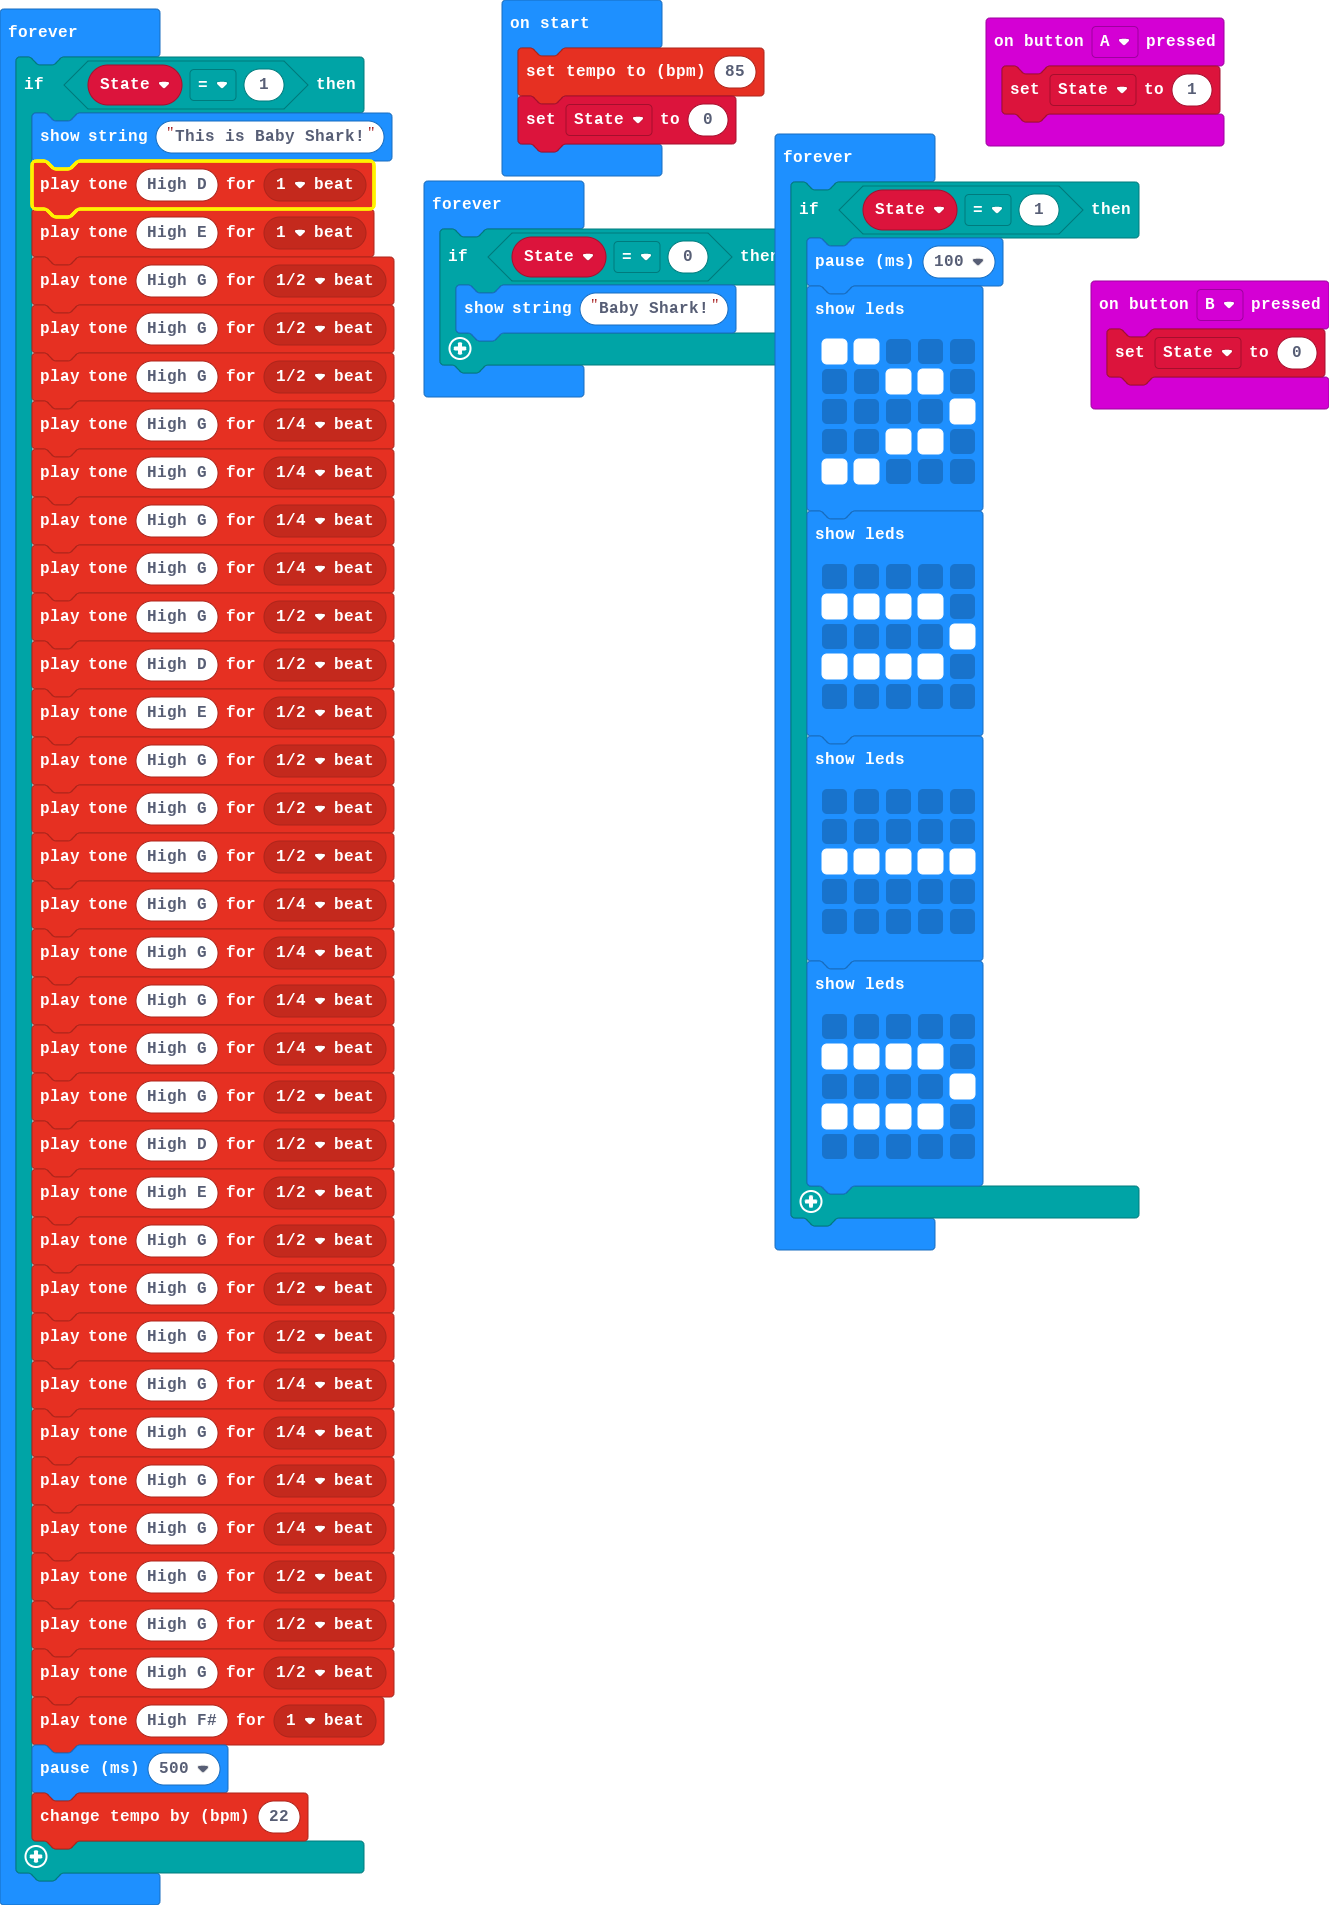
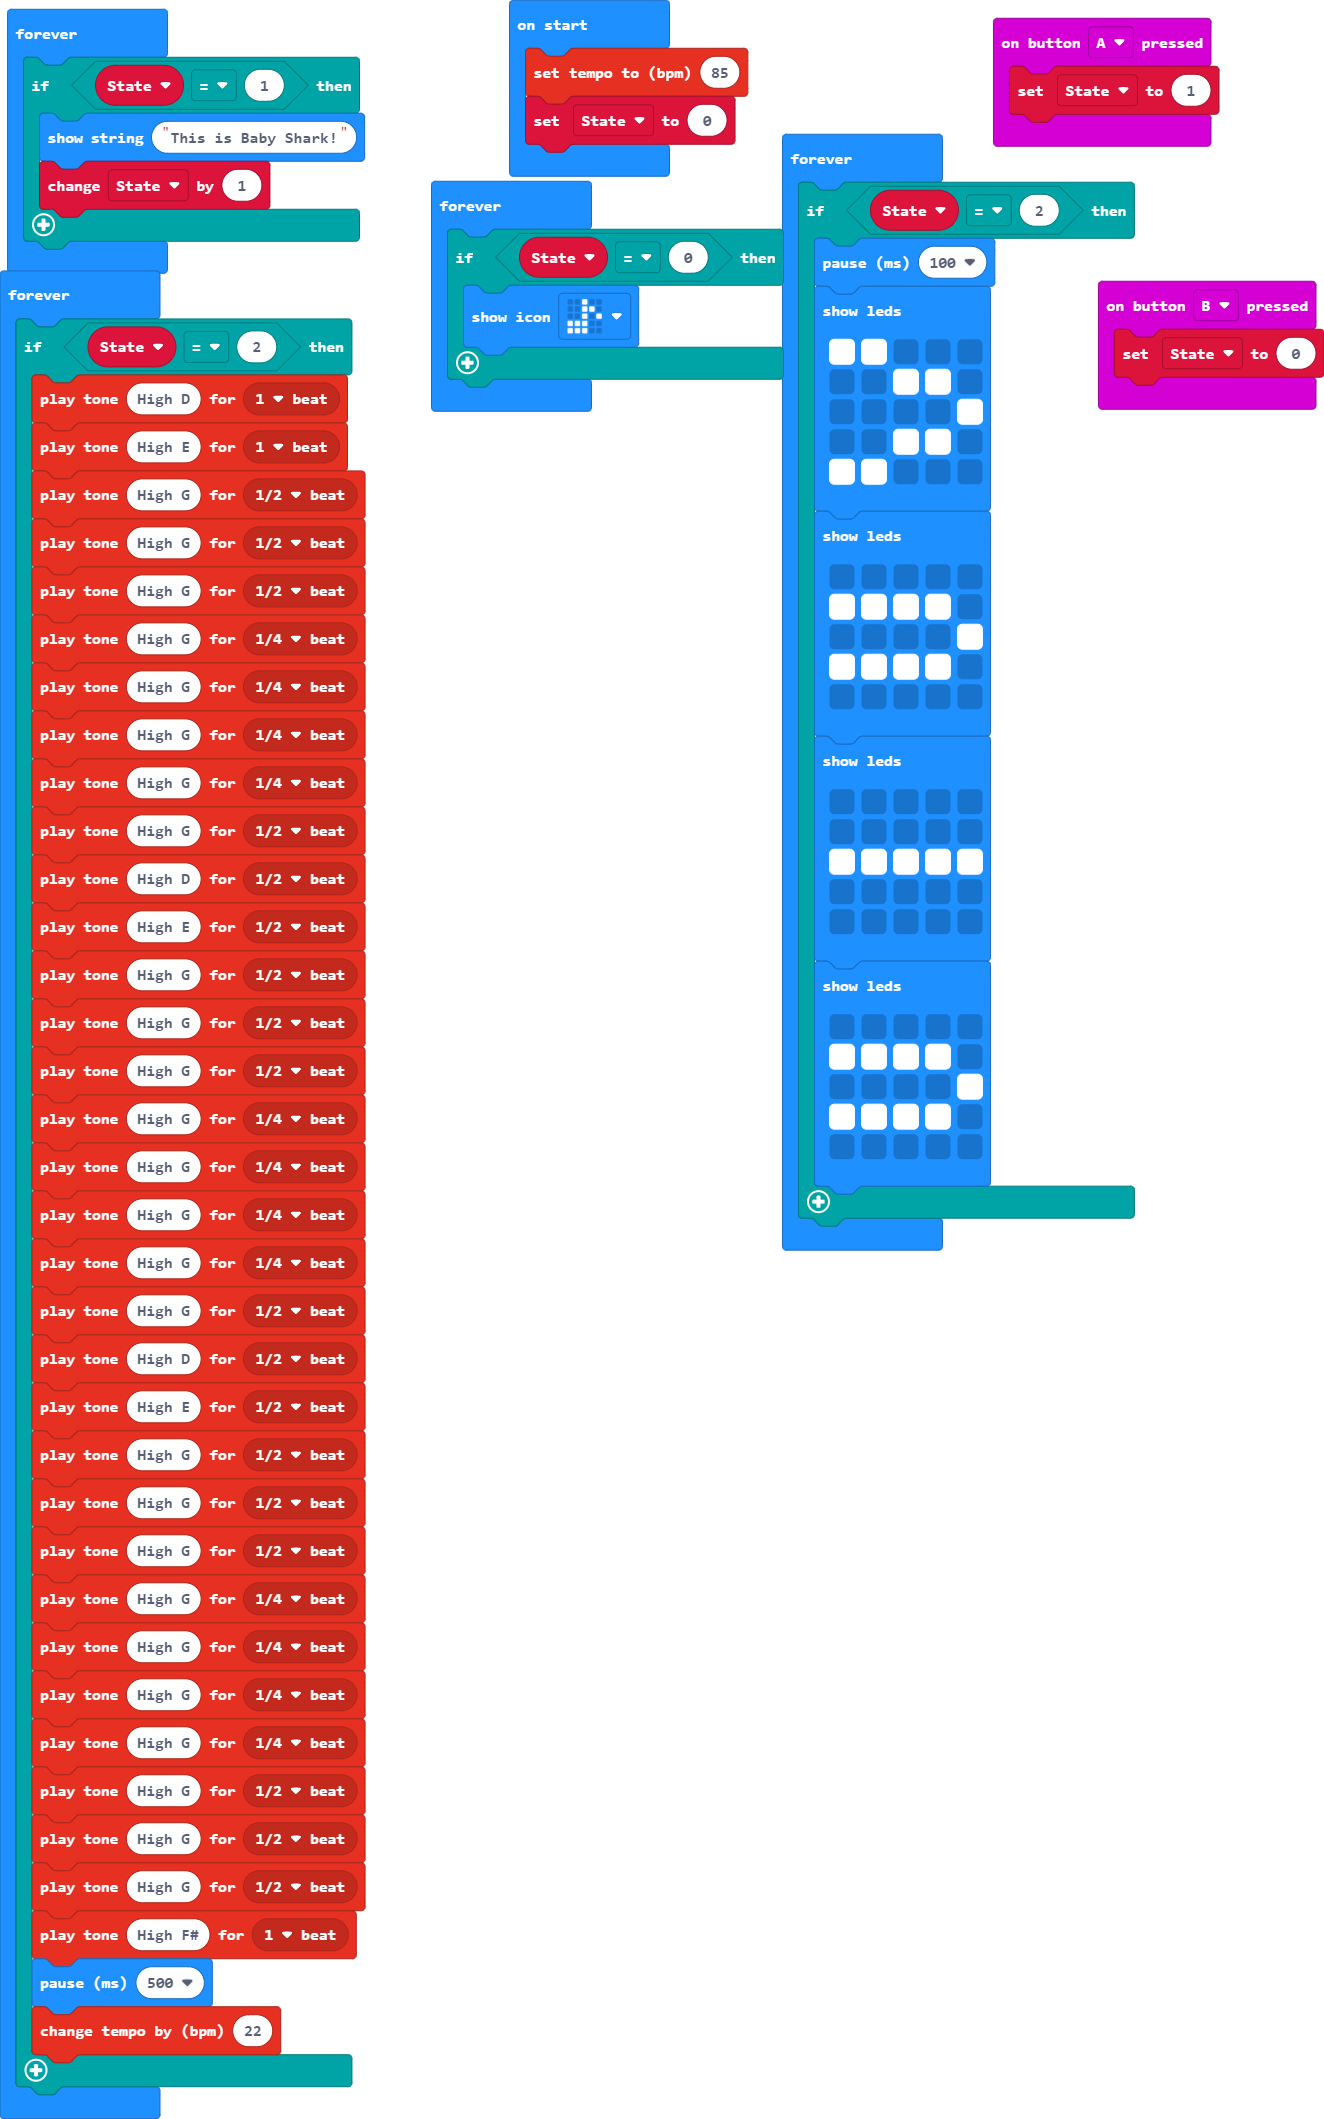
State 2 function

Changed region(s): [[0.0, 0.0, 1.0, 0.9911]]

diff --git a/main.ts b/main.ts
@@ -10,6 +10,49 @@ State = 0
 basic.forever(function () {
     if (State == 1) {
         basic.showString("This is Baby Shark!")
+        State += 1
+    }
+})
+basic.forever(function () {
+    if (State == 2) {
+        basic.pause(100)
+        basic.showLeds(`
+            # # . . .
+            . . # # .
+            . . . . #
+            . . # # .
+            # # . . .
+            `)
+        basic.showLeds(`
+            . . . . .
+            # # # # .
+            . . . . #
+            # # # # .
+            . . . . .
+            `)
+        basic.showLeds(`
+            . . . . .
+            . . . . .
+            # # # # #
+            . . . . .
+            . . . . .
+            `)
+        basic.showLeds(`
+            . . . . .
+            # # # # .
+            . . . . #
+            # # # # .
+            . . . . .
+            `)
+    }
+})
+basic.forever(function () {
+    if (State == 0) {
+        basic.showIcon(IconNames.EigthNote)
+    }
+})
+basic.forever(function () {
+    if (State == 2) {
         music.playTone(587, music.beat(BeatFraction.Whole))
         music.playTone(659, music.beat(BeatFraction.Whole))
         music.playTone(784, music.beat(BeatFraction.Half))
@@ -45,43 +88,5 @@ basic.forever(function () {
         music.playTone(740, music.beat(BeatFraction.Whole))
         basic.pause(500)
         music.changeTempoBy(22)
-    }
-})
-basic.forever(function () {
-    if (State == 1) {
-        basic.pause(100)
-        basic.showLeds(`
-            # # . . .
-            . . # # .
-            . . . . #
-            . . # # .
-            # # . . .
-            `)
-        basic.showLeds(`
-            . . . . .
-            # # # # .
-            . . . . #
-            # # # # .
-            . . . . .
-            `)
-        basic.showLeds(`
-            . . . . .
-            . . . . .
-            # # # # #
-            . . . . .
-            . . . . .
-            `)
-        basic.showLeds(`
-            . . . . .
-            # # # # .
-            . . . . #
-            # # # # .
-            . . . . .
-            `)
-    }
-})
-basic.forever(function () {
-    if (State == 0) {
-        basic.showString("Baby Shark!")
     }
 })
